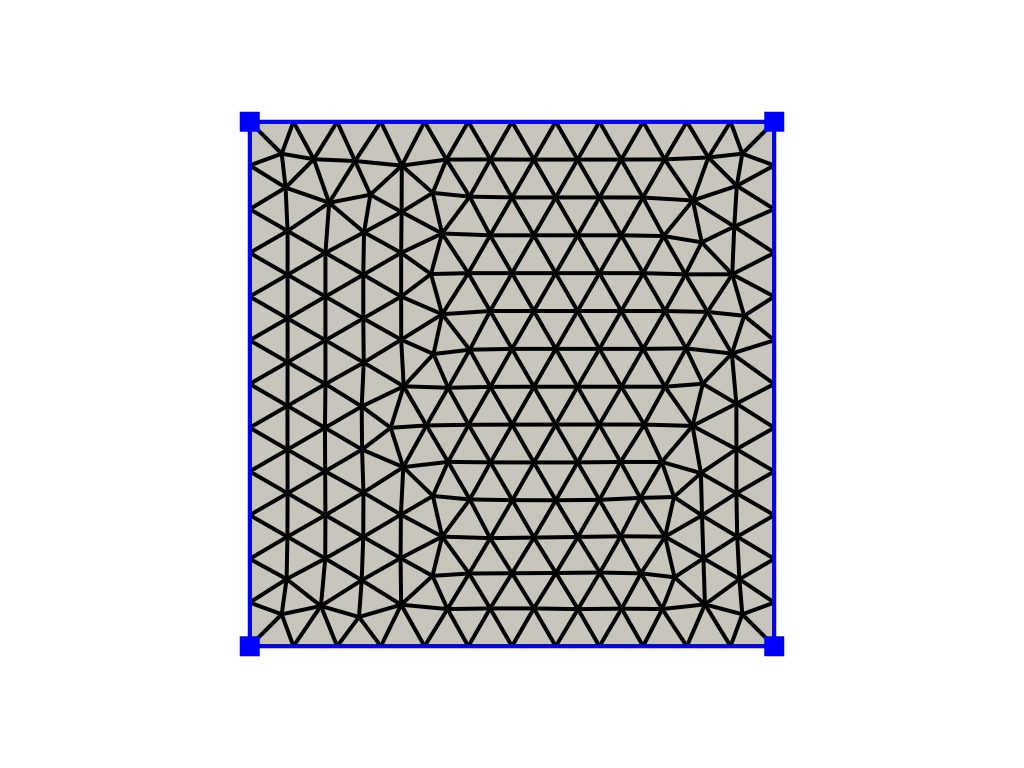
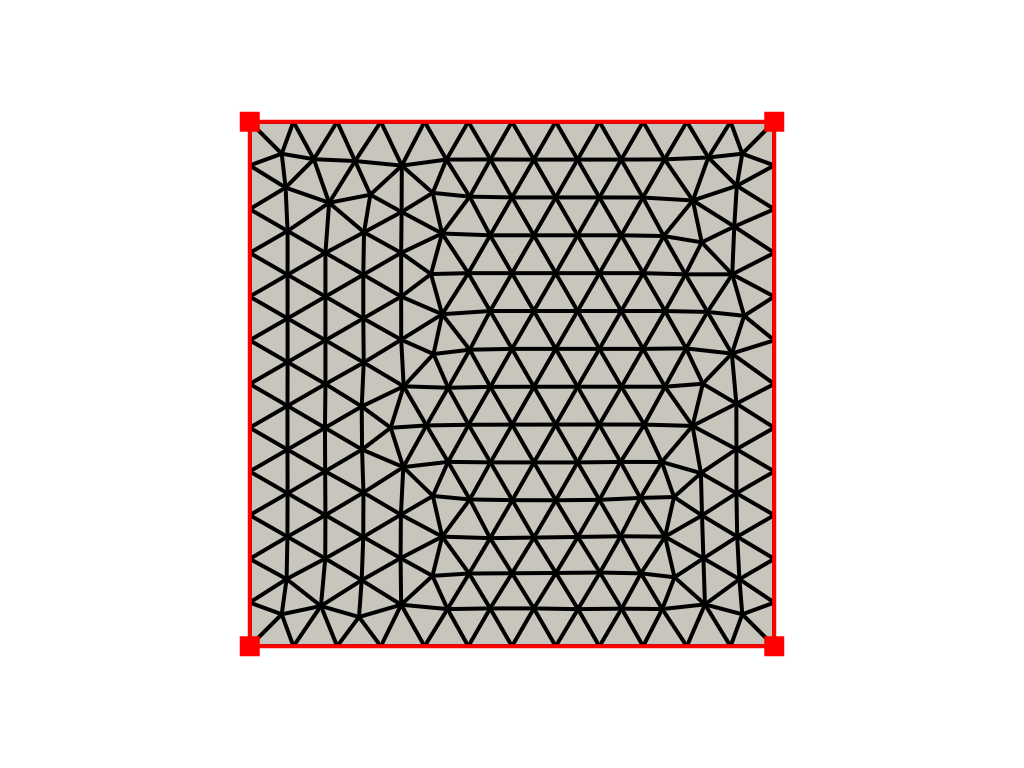
Fix the color of edge source from blue to red

Changed region(s): [[0.2188, 0.125, 0.7812, 0.875]]

diff --git a/src/pvgmsh/__init__.py b/src/pvgmsh/__init__.py
@@ -63,8 +63,8 @@ def frontal_delaunay_2d(
 
     >>> plotter = pv.Plotter(off_screen=True)
     >>> _ = plotter.add_mesh(mesh, show_edges=True, line_width=4, color="white")
-    >>> _ = plotter.add_mesh(edge_source, show_edges=True, line_width=4, color="blue")
-    >>> _ = plotter.add_points(edge_source.points, style="points", point_size=20, color="blue")
+    >>> _ = plotter.add_mesh(edge_source, show_edges=True, line_width=4, color="red")
+    >>> _ = plotter.add_points(edge_source.points, style="points", point_size=20, color="red")
     >>> plotter.show(cpos="xy", screenshot="frontal_delaunay_2d_01.png")
     """
     gmsh.initialize()

diff --git a/README.md b/README.md
@@ -40,9 +40,9 @@ To visualize the model we can use PyVista.
 ```python
     >>> plotter = pv.Plotter()
     >>> _ = plotter.add_mesh(mesh, show_edges=True, line_width=4, color="white")
-    >>> _ = plotter.add_mesh(edge_source, show_edges=True, line_width=4, color="blue")
+    >>> _ = plotter.add_mesh(edge_source, show_edges=True, line_width=4, color="red")
     >>> _ = plotter.add_points(
-    ...     edge_source.points, style="points", point_size=20, color="blue"
+    ...     edge_source.points, style="points", point_size=20, color="red"
     ... )
     >>> plotter.show(cpos="xy")
 ```
